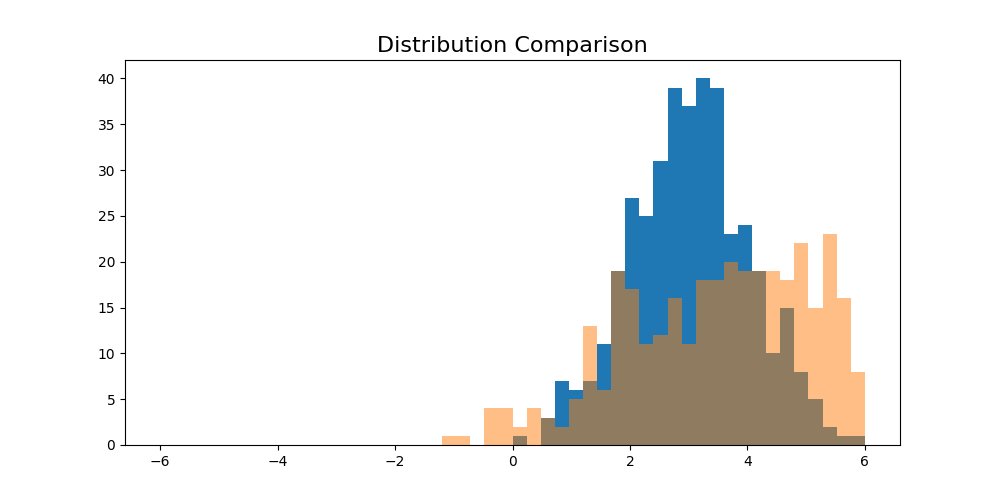
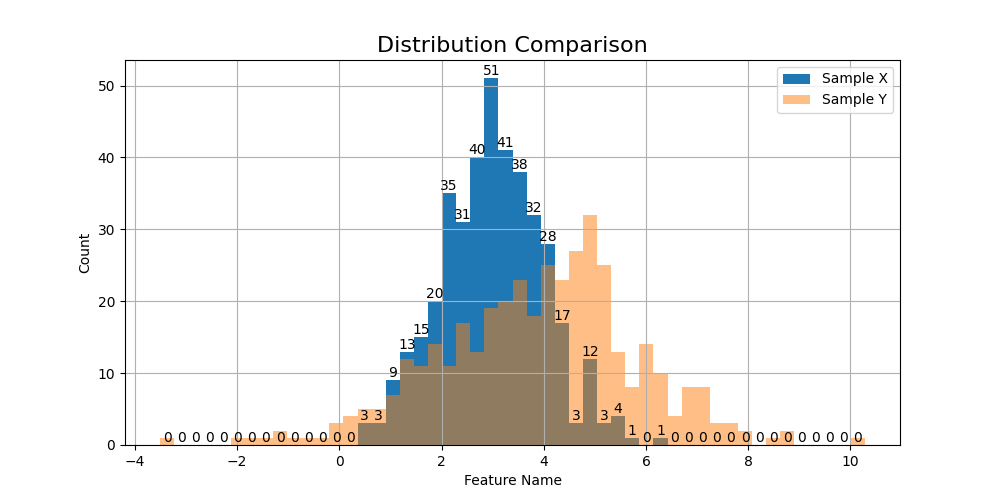
Histogram with tweaks
Histogram with visual tweaks, saves to the current directory.

diff --git a/plots/plt_compare_distributions.py b/plots/plt_compare_distributions.py
@@ -5,29 +5,49 @@ import random
 import pathlib
 import os
 from matplotlib import pyplot as plt
-from typing import Final
+from typing import Final, Union, List
 
 # This script location
 SCRIPT_DIR = pathlib.Path(__file__).parent.resolve()
 
 # Run preview
-RUN_PREVIEW: Final[bool] = False
+RUN_PREVIEW: Final[bool] = True
 
-def gen_histograms(x, y, fig_size=(10, 5), plot_title="Distribution Comparison", title_size=16):
+# Handle list of numbers
+Num = Union[int, float]
+
+def gen_histograms(
+    x: List[Num],
+    y: List[Num],
+    fig_size=(10, 5),
+    plot_title="Distribution Comparison",
+    title_size=16,
+    show_grid=True,
+    x_label = "Feature Name",
+    y_label = "Count",
+    show_bar_labels = True,
+    legend_pos='upper right',
+    labels = ['Sample X', 'Sample Y']
+):
     f = plt.figure(figsize=fig_size)
-    _, bins, _ = plt.hist(x, bins=50, range=[-6, 6])
-    plt.hist(y, bins=bins, alpha=0.5)
+    _, bins, bars = plt.hist(x, bins=50, range=[min(x+y), max(x+y)], label=labels[0])
+    plt.hist(y, bins=bins, alpha=0.5, label=labels[1])
     plt.title(plot_title, size=title_size)
-    return(f)
-
-
+    plt.grid(show_grid)
+    plt.xlabel(x_label)
+    plt.ylabel(y_label)
+    if show_bar_labels:
+        plt.bar_label(bars)
+    if legend_pos is not None:
+        plt.legend(loc=legend_pos)
+    return f
 
 
 # Tests
 if RUN_PREVIEW:
     # Create sample distributions
-    sam_x = [random.gauss(3,1) for _ in range(400)]
-    sam_y = [random.gauss(4,2) for _ in range(400)]
-    # Run 
+    sam_x = [random.gauss(3, 1) for _ in range(400)]
+    sam_y = [random.gauss(4, 2) for _ in range(400)]
+    # Run
     sample_figure = gen_histograms(x=sam_x, y=sam_y)
-    sample_figure.savefig(os.path.join(SCRIPT_DIR, 'sample_fig.png'), format='png')
+    sample_figure.savefig(os.path.join(SCRIPT_DIR, "sample_fig.png"), format="png")
